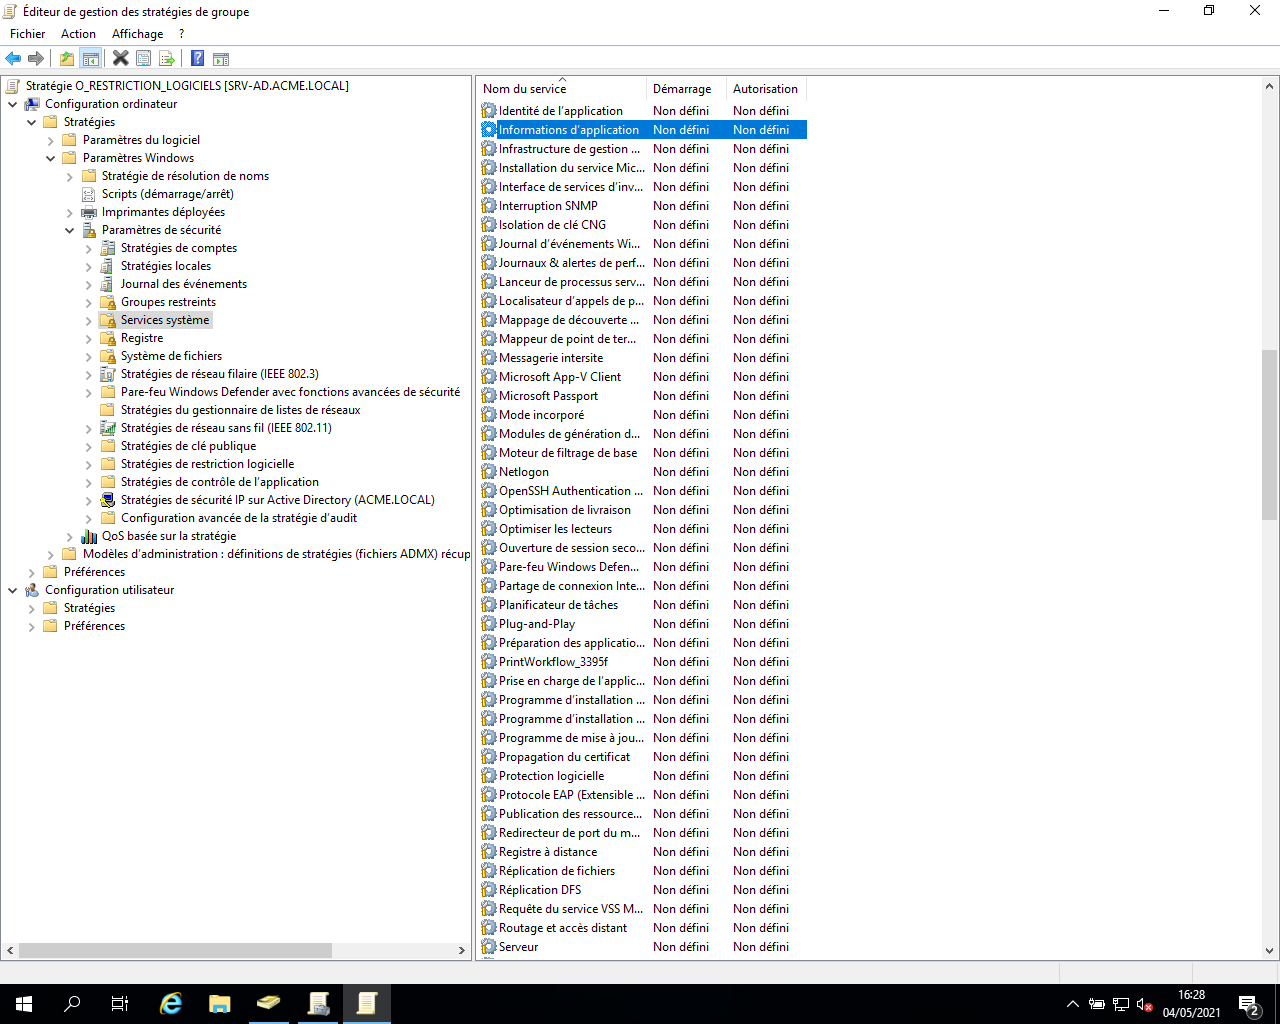
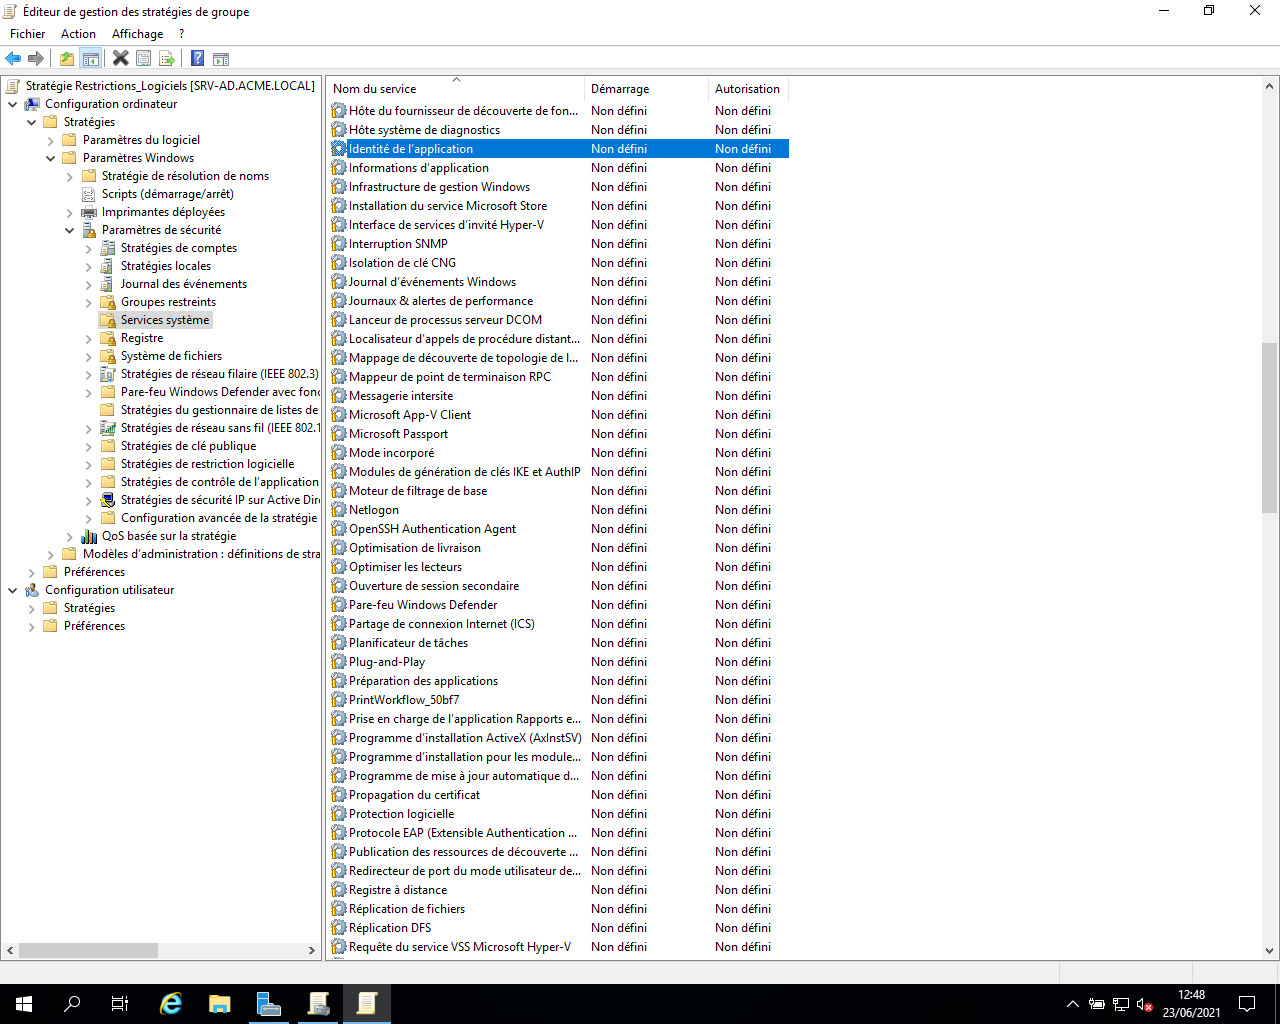
correction article applocker

diff --git a/_posts/2021-05-05-utiliser-applocker-pour-restreindre-installation-logiciels.md b/_posts/2021-05-05-utiliser-applocker-pour-restreindre-installation-logiciels.md
@@ -53,7 +53,7 @@ Il faudra bien évidement lier la GPO à l'OU sur laquelle vous voulez l'appliqu
 
 ## Activation du Service "Infomations d'Application"
 
-Pour qu'Applocker puisse fonctionne, il faut que le service "Informations d'Application soit démarré sur les PC Windows 10. Par défaut, ce service est désactivé. Il faut donc l'activer.
+Pour qu'Applocker puisse fonctionne, il faut que le service "Identité de l'application" soit démarré sur les PC Windows 10. Par défaut, ce service est désactivé. Il faut donc l'activer.
 
 Nous pouvons bien entendu intégrer ceci dans notre GPO:
 
